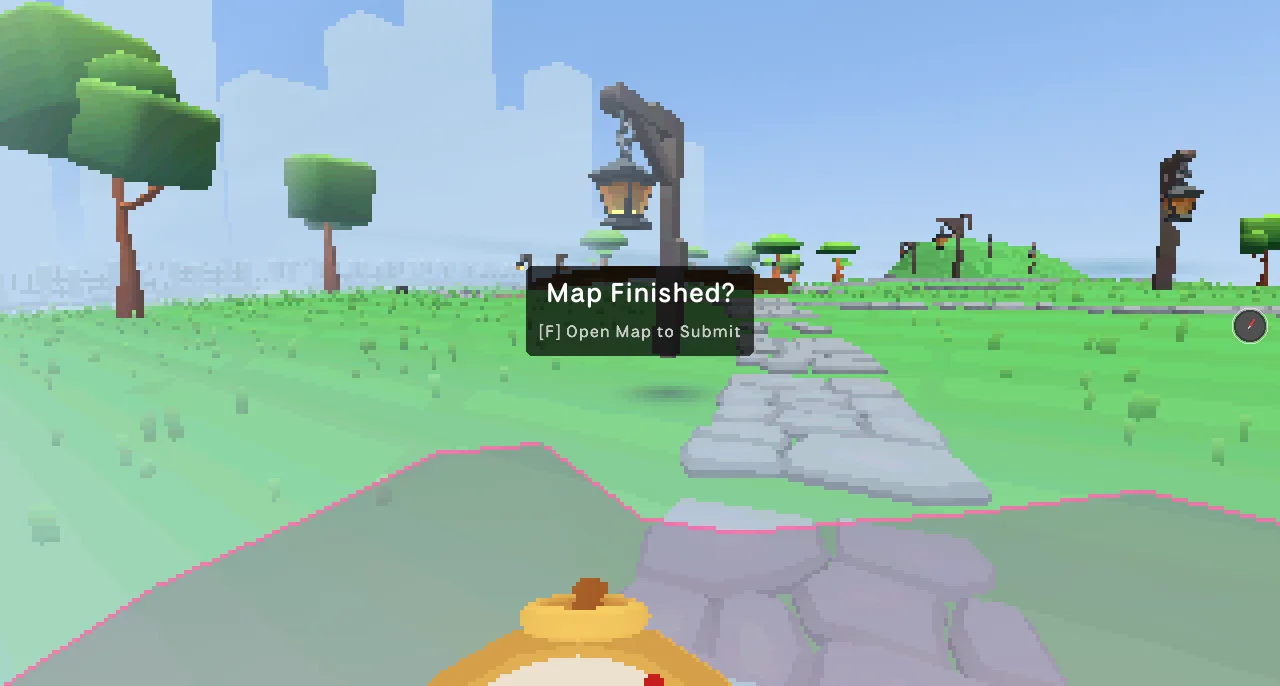
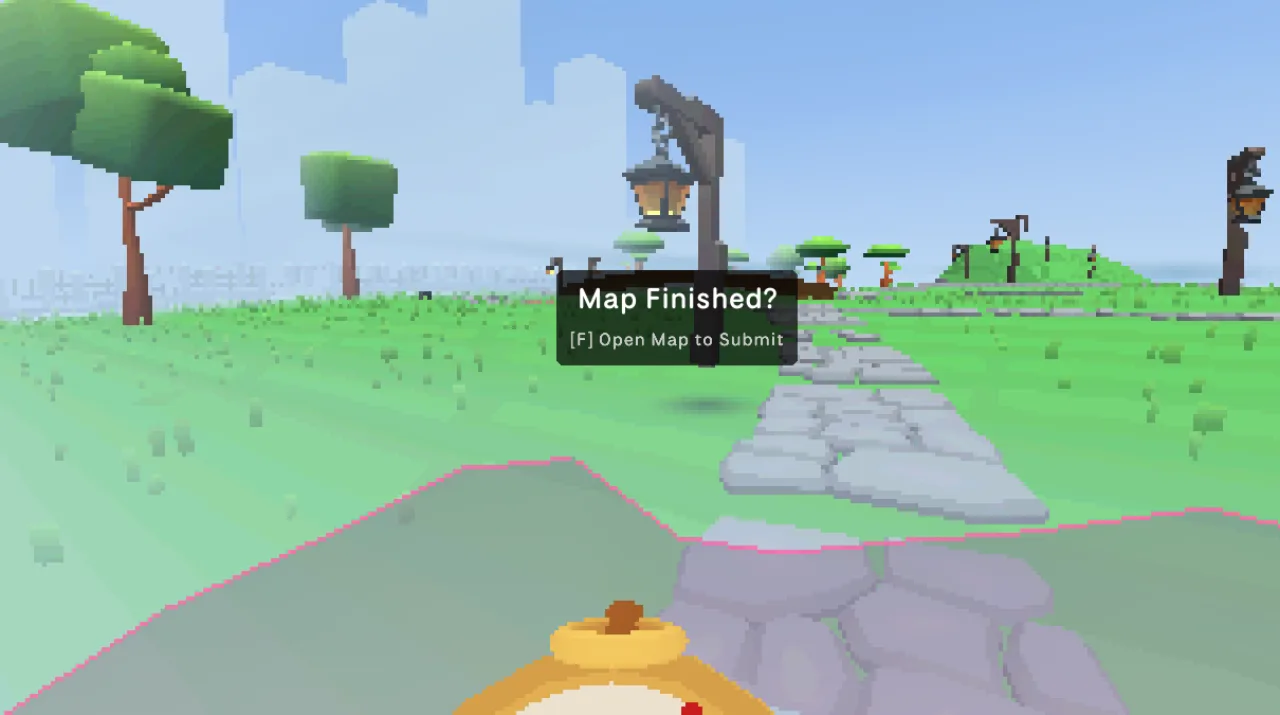
restyle header nav as tabs, swap out glitched cartographer shot
The tab styling belonged on the header nav, not the category filters.
Active page now gets the lighter rounded chip.

Also replaced the cartographer set: the switchback-path shot had a pink
rendering-glitch blob and a floating prop in frame, and the new captures
crop out the compass HUD as well as the FPS counter. Dropped the
map-drawing shot since it reads as full-screen UI rather than world.

diff --git a/projects-data.js b/projects-data.js
@@ -287,70 +287,63 @@ const PROJECTS = [
         "caption": "A tree-lined path along the park fence at midday, city skyline in the distance",
         "date": "2026-09-18",
         "width": 1280,
-        "height": 686
+        "height": 715
       },
       {
         "src": "images/projects/2026-09/cg-path-dawn.webp",
-        "caption": "The same path in warm orange dawn haze, skyline glowing behind it",
+        "caption": "The same path in warm orange dawn light",
         "date": "2026-09-18",
         "width": 1280,
-        "height": 686
+        "height": 715
       },
       {
         "src": "images/projects/2026-09/cg-path-night.webp",
-        "caption": "The path again at night, deep blue-black with the skyline barely visible",
+        "caption": "The path again at night, deep blue-black under the skyline",
         "date": "2026-09-18",
         "width": 1280,
-        "height": 686
+        "height": 715
       },
       {
         "src": "images/projects/2026-09/cg-exploring.webp",
         "caption": "Exploring a stone path past a lamppost, with the prompt to open the map and submit",
         "date": "2026-09-18",
         "width": 1280,
-        "height": 686
-      },
-      {
-        "src": "images/projects/2026-09/cg-switchbacks.webp",
-        "caption": "A stone switchback path climbing a grassy hill",
-        "date": "2026-09-18",
-        "width": 1280,
-        "height": 686
+        "height": 715
       },
       {
         "src": "images/projects/2026-09/cg-lakeside.webp",
-        "caption": "A path along the lake edge, lined with a low stone wall and trees",
+        "caption": "A path along the lake edge, lined with a stone wall and trees",
         "date": "2026-09-18",
         "width": 1280,
-        "height": 686
+        "height": 715
       },
       {
         "src": "images/projects/2026-09/cg-pond.webp",
         "caption": "A wide pond ringed with bonsai-style trees",
         "date": "2026-09-18",
         "width": 1280,
-        "height": 686
+        "height": 715
       },
       {
         "src": "images/projects/2026-09/cg-lamppost.webp",
         "caption": "A lamppost and bench on a grassy hill, skyline hazy behind",
         "date": "2026-09-18",
         "width": 1280,
-        "height": 686
+        "height": 715
       },
       {
         "src": "images/projects/2026-09/cg-overhead.webp",
-        "caption": "Overhead view of the park: a compass-rose monument, a pond and bridge, and hedge-lined paths",
+        "caption": "Overhead view of the park: the compass monument, a pond and bridge, and hedge-lined paths",
         "date": "2026-09-18",
         "width": 1280,
-        "height": 1022
+        "height": 864
       },
       {
         "src": "images/projects/2026-09/cg-lantern.webp",
         "caption": "A hanging lantern lamppost among the trees against a pale sky",
         "date": "2026-09-18",
         "width": 1280,
-        "height": 686
+        "height": 715
       }
     ],
     "tags": [

diff --git a/projects.css b/projects.css
@@ -18,8 +18,10 @@ button { cursor: pointer; }
 .header-inner { min-height: 85px; display: flex; align-items: center; justify-content: space-between; gap: 24px; }
 .sitename { font-size: 30px; font-weight: 900; text-decoration: none; }
 .site-header a { color: #fff; }
-.site-header nav { display: flex; gap: 24px; font-size: 14px; }
-.site-header nav a[aria-current] { font-weight: bold; }
+.site-header nav { display: flex; flex-wrap: wrap; gap: 4px; font-size: 17px; }
+.site-header nav a { padding: 8px 18px; border-radius: 8px; color: #e4e9f6; text-decoration: none; }
+.site-header nav a:hover { background: rgb(255 255 255 / 12%); color: #fff; }
+.site-header nav a[aria-current] { background: #8491c6; color: #fff; font-weight: 700; }
 .intro { padding: 36px 0 28px; }
 h1 { font-size: 28px; line-height: 1.2; margin: 0 0 12px; }
 .intro p { max-width: 640px; margin: 8px 0; font-size: 16px; }
@@ -75,7 +77,8 @@ body:has(dialog[open]) { overflow: hidden; }
   .header-inner, main, .footer-inner { width: calc(100% - 32px); }
   .header-inner { min-height: 76px; gap: 16px; }
   .sitename { font-size: 24px; }
-  .site-header nav { gap: 14px; font-size: 12px; }
+  .site-header nav { gap: 2px; font-size: 14px; }
+  .site-header nav a { padding: 7px 12px; }
   .intro { padding: 28px 0; }
   h1 { font-size: 24px; }
   .intro p { font-size: 14px; }
